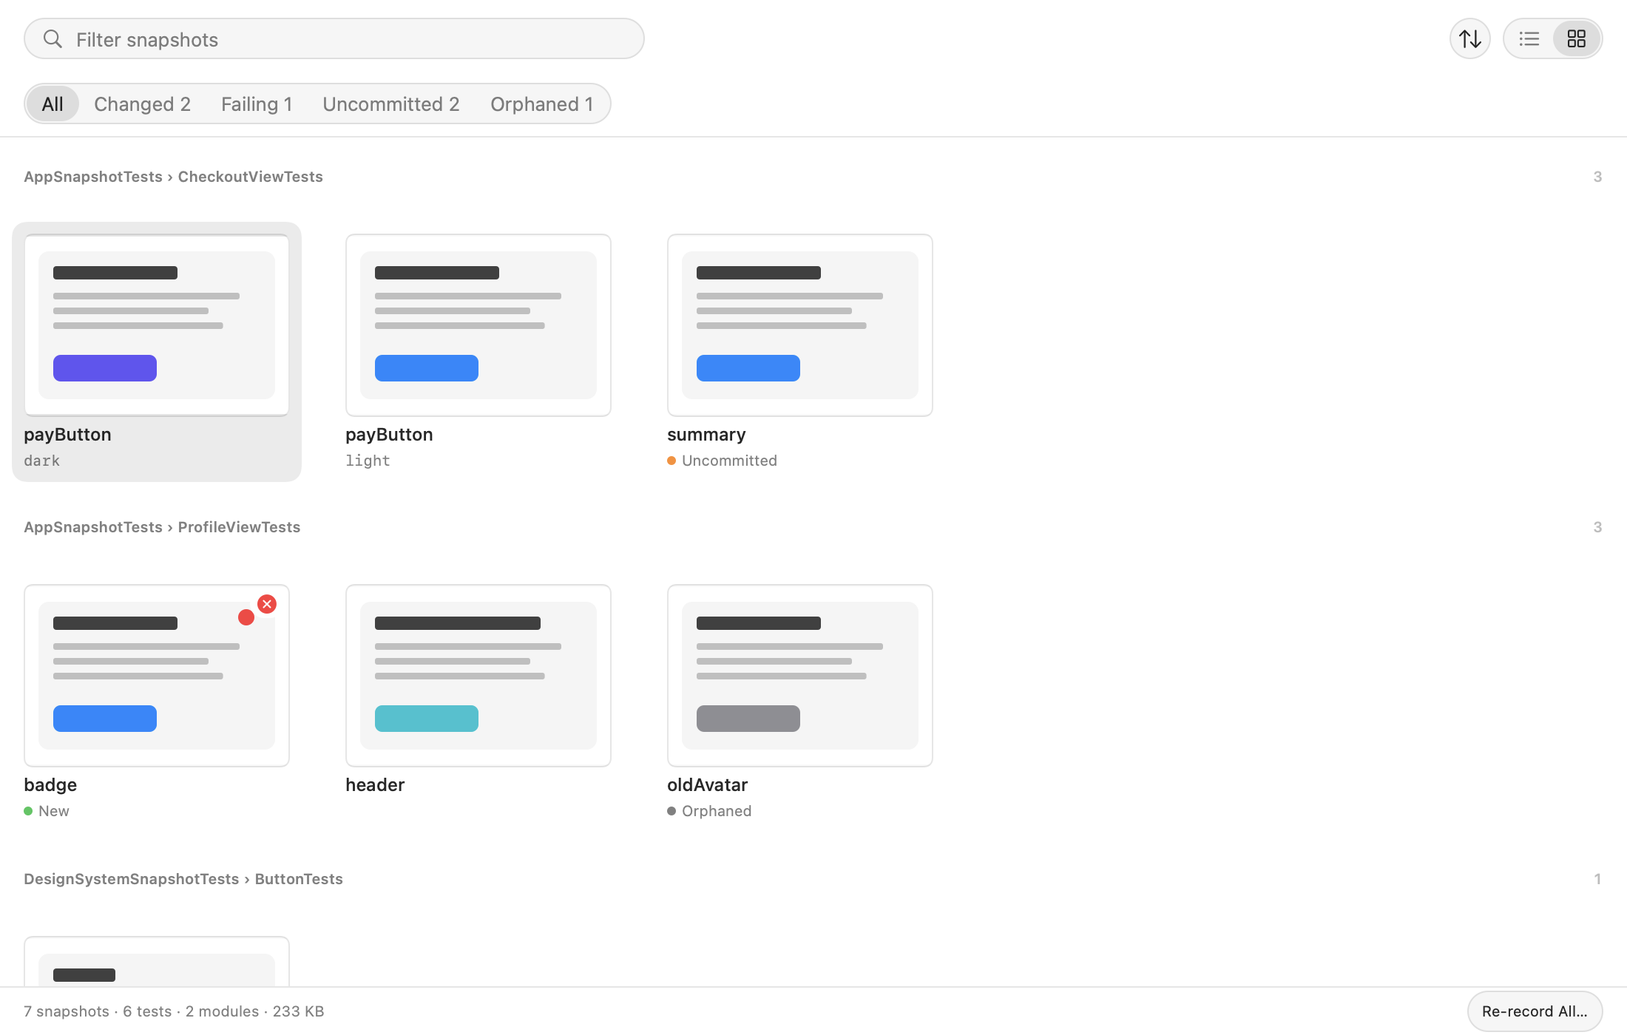
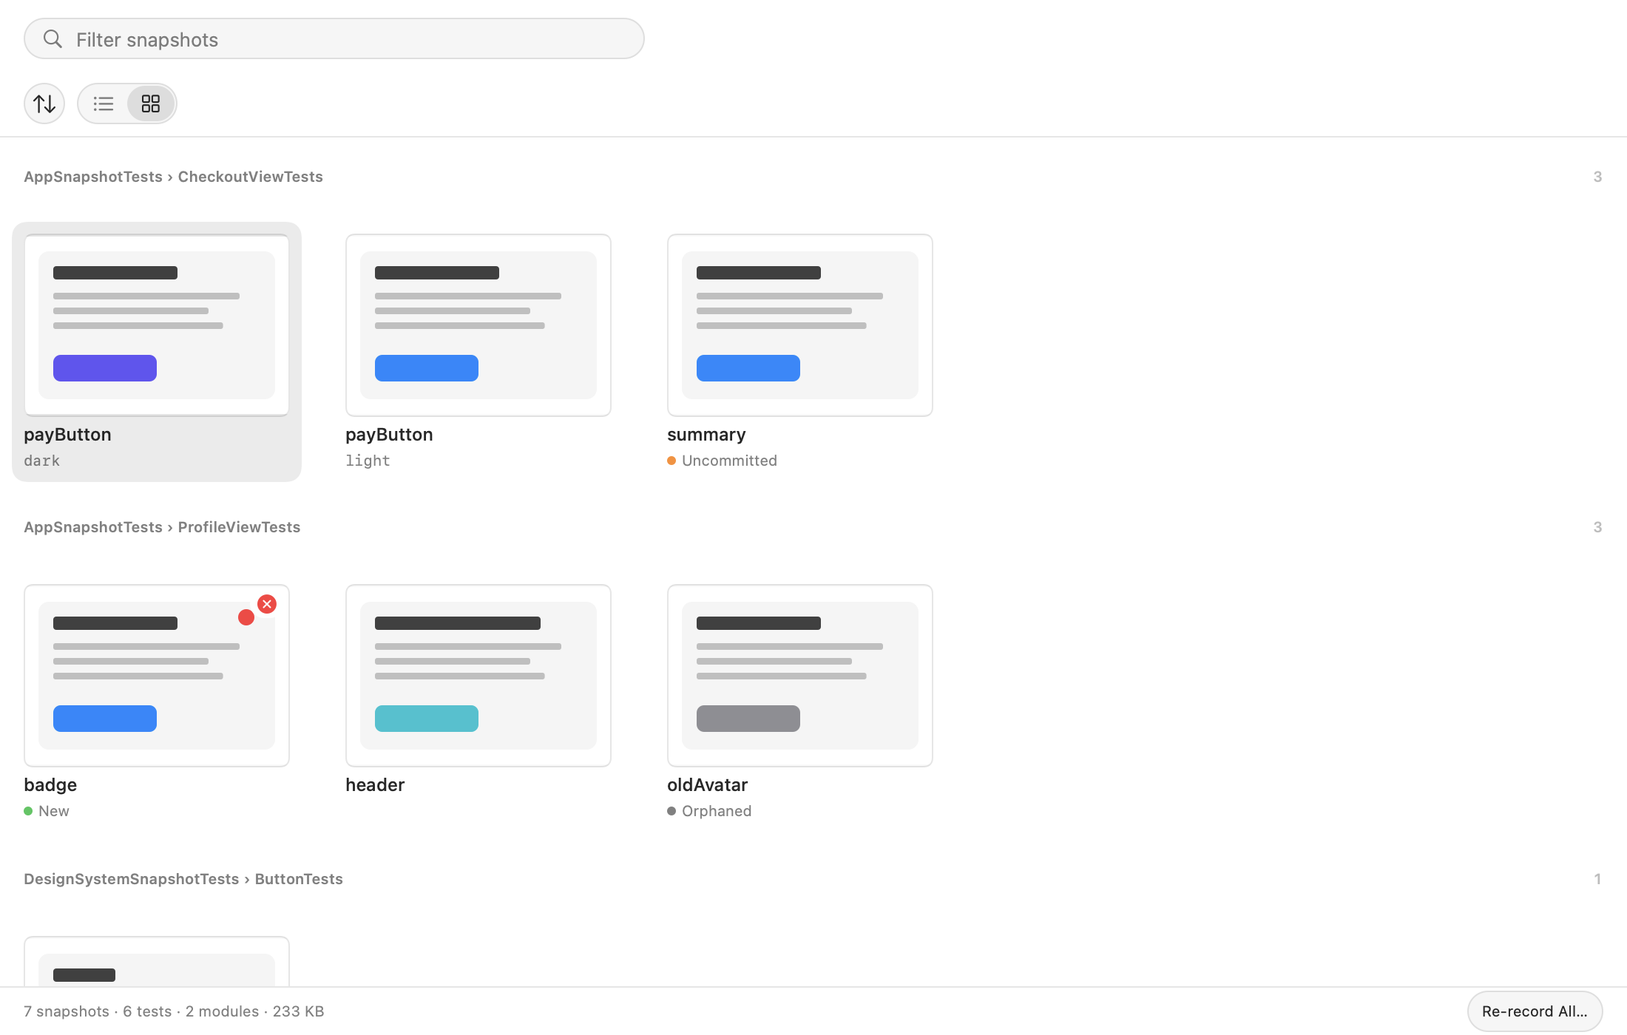
Polish the sidebar branch: screenshots, docs, the off-screen sidebar
- Working Copy no longer shows, beside its empty list, the committed change
  vs develop had selected (`shownChange`).
- The switcher sits above the section list instead of inset over it: the
  list then draws in captures, where it came out blank. Off-screen
  (`--capture`, the snapshot tests) the selected row is filled grey by
  hand, as in a background window, and the counts are flattened: the
  sidebar's selection material drew black there and its vibrancy dropped
  the dots' colour. The sidebar references now show a selected section.
- `FailingCount` is a `SectionCount`; "Working Copy" is capitalized
  everywhere; `narrowPane`'s references are named after their section.
- Screenshots: compare.png and library.png captured again from the Fitness
  sample, library-grid.png from its reference. The landing page, README and
  design notes describe the sections, the CI jobs in the sidebar and the
  library without its scopes. The runtime-warning check opens Working Copy
  too.
- Releases are named alpha ("SnapshotKit 0.4.0 alpha"), without being
  marked pre-releases, which releases/latest would skip.

Changed region(s): [[0.0, 0.0614, 0.3709, 0.1229], [0.8964, 0.0, 0.9891, 0.0614]]

diff --git a/Sources/SnapshotKitUI/Views/SidebarView.swift b/Sources/SnapshotKitUI/Views/SidebarView.swift
@@ -6,7 +6,12 @@ struct SidebarView: View {
     @Environment(AppModel.self) private var model
 
     var body: some View {
-        Group {
+        // Above the list, not inset over it or a row of it: drawn off-screen (`--capture`), the list
+        // came out blank either way.
+        VStack(spacing: 0) {
+            ProjectSwitcher()
+                .padding(.horizontal, DS.Space.s)
+                .padding(.bottom, DS.Space.xs)
             if let project = model.current {
                 SectionList(project: project)
             } else {
@@ -14,7 +19,6 @@ struct SidebarView: View {
                 List {}.listStyle(.sidebar)
             }
         }
-        .safeAreaInset(edge: .top, spacing: 0) { ProjectSwitcher() }
     }
 }
 
@@ -23,8 +27,14 @@ struct SidebarView: View {
 struct SectionList: View {
     let project: ProjectModel
 
+    /// Drawn off-screen (`--capture`, the snapshot tests), where the sidebar's selection material comes out
+    /// black and its vibrancy drops the dots' colour: there the selected row is filled by hand, grey as in
+    /// a window in the background, and the counts are flattened.
+    static var drawsOffScreen: Bool { DS.solidSurfaces || CaptureOptions.isCapturing }
+
     var body: some View {
-        List(selection: Binding(get: { project.section }, set: { if let section = $0 { project.section = section } })) {
+        List(selection: Binding(get: { Self.drawsOffScreen ? nil : project.section },
+                                set: { if let section = $0 { project.section = section } })) {
             Section("Workspace") {
                 row(.workingCopy)
                 row(.comparison)
@@ -61,6 +71,9 @@ struct SectionList: View {
             Image(systemName: Self.symbol(of: section))
         }
         .tag(section)
+        .listRowBackground(Self.drawsOffScreen && project.section == section
+            ? RoundedRectangle(cornerRadius: DS.Radius.small, style: .continuous).fill(DS.Surface.selection).padding(.horizontal, DS.Space.s + 2)
+            : nil)
         .help(project.title(of: section))
         // One VoiceOver stop per item, by its full name: "Changes vs develop, 7 changes". The count
         // is in the label: a sidebar row doesn't pass on an accessibility value.
@@ -78,7 +91,13 @@ struct SectionList: View {
                 Circle().fill(DS.Status.failed).frame(width: DS.Status.dot, height: DS.Status.dot)
             }
         } else if let count = project.count(of: section), count > 0 {
-            SectionCount(count: count, color: Self.color(of: section))
+            if Self.drawsOffScreen {
+                // Off-screen the sidebar's vibrancy drops the dot's colour; flattened, the count keeps it.
+                SectionCount(count: count, color: Self.color(of: section), textColor: Color(nsColor: .secondaryLabelColor))
+                    .drawingGroup()
+            } else {
+                SectionCount(count: count, color: Self.color(of: section))
+            }
         }
     }
 
@@ -109,14 +128,16 @@ struct SectionList: View {
 struct SectionCount: View {
     var count: Int
     var color: Color?
+    /// The number's colour, when the secondary style has nothing to resolve against (a flattened badge).
+    var textColor: Color?
 
     var body: some View {
         HStack(spacing: DS.Space.xs) {
             if let color { Circle().fill(color).frame(width: DS.Status.dot, height: DS.Status.dot) }
             Text("\(count)").monospacedDigit()
+                .foregroundStyle(textColor.map(AnyShapeStyle.init) ?? AnyShapeStyle(.secondary))
         }
         .font(DS.Font.caption)
-        .foregroundStyle(.secondary)
     }
 }
 
@@ -152,8 +173,6 @@ struct ProjectSwitcher: View {
         .buttonStyle(.plain)
         .background(RoundedRectangle(cornerRadius: DS.Radius.small, style: .continuous)
             .fill(isPresented ? DS.Surface.selection : .clear))
-        .padding(.horizontal, DS.Space.s)
-        .padding(.bottom, DS.Space.xs)
         .help("Switch project (⌘K also finds projects and commands)")
         .accessibilityLabel(model.current.map { "Project: \($0.project.name)" } ?? "Choose a project")
         .accessibilityValue(model.current?.branchLabel ?? "")

diff --git a/site/index.html b/site/index.html
@@ -284,7 +284,7 @@
   </section>
 
   <section class="wide hero-shot">
-    <img class="shot" src="images/compare.png" width="2800" height="1760" alt="SnapshotKit comparing a changed snapshot side by side: the same screen on the base branch and on the feature branch: red activity rings on develop, orange on the branch, 6.62% changed">
+    <img class="shot" src="images/compare.png" width="2800" height="1760" alt="SnapshotKit comparing a changed snapshot side by side, with the project's sections in the sidebar: the same screen on the base branch and on the feature branch: red activity rings on develop, orange on the branch, 6.62% changed">
   </section>
 
   <section id="how" class="wrap fits">
@@ -353,7 +353,7 @@
       <div class="text">
         <span class="eyebrow">Review</span>
         <h2>Review snapshots like code.</h2>
-        <p>Every snapshot image that differs from the base branch, committed or not, against the merge-base or the branch tip. Each change names the commit that last touched it.</p>
+        <p>What you haven’t committed yet, and every snapshot image that differs from the base branch, against the merge-base or the branch tip, each in its own place in the sidebar. Each change names the commit that last touched it.</p>
       </div>
       <img class="media shot" src="images/changes-dark.png" width="2200" height="1400" alt="Changed snapshots compared with the base branch, side by side, in dark mode">
     </div>
@@ -362,7 +362,7 @@
       <div class="text">
         <span class="eyebrow">Failures</span>
         <h2>Know why it failed.</h2>
-        <p>Reference, actual and difference for the last run or an .xcresult from CI. Each difference is diagnosed, flaky tests are named, and every test shows its recent runs.</p>
+        <p>Reference, actual and difference for the last run, an .xcresult, or a failed CI job, which the sidebar lists under its merge request. Each difference is diagnosed, flaky tests are named, and every test shows its recent runs.</p>
       </div>
     </div>
     <div class="row">
@@ -374,7 +374,7 @@
       <img class="media shot" src="images/diagnosis.png" width="1640" height="960" alt="A note saying the difference is not visible, with a button to copy perceptualPrecision: 0.99">
     </div>
     <div class="row flip">
-      <img class="media shot" src="images/library-grid.png" width="2200" height="1400" alt="The snapshot library as a grid, with changed, failing, uncommitted and orphaned filters">
+      <img class="media shot" src="images/library-grid.png" width="2200" height="1400" alt="The snapshot library as a grid of thumbnails, grouped by test file">
       <div class="text">
         <span class="eyebrow">Update</span>
         <h2>Re-record what should change.</h2>

diff --git a/Sources/SnapshotKitUI/Model/ProjectModel.swift b/Sources/SnapshotKitUI/Model/ProjectModel.swift
@@ -172,7 +172,7 @@ enum FailureOrigin: Hashable {
 struct FailureSet {
     var items: [FailureItem] = []
     var source: FailureSource?
-    /// The suites Re-record Failing Suites and Check Flakiness act on.
+    /// Its failing suites: for the last run's, what Re-record Failing Suites and Check Flakiness act on.
     var failingSuites: [SuiteResult] = []
     var flakeResults: [FlakeResult] = []
     /// What kind of difference each failure is (first repetition), computed in the background.
@@ -360,6 +360,11 @@ final class ProjectModel {
     }
     var diffBase: DiffBase = .mergeBase { didSet { if oldValue != diffBase { refreshChanges() } } }
     var selectedChangeID: String?
+    /// The selected change, while the section lists it: Working Copy has no committed changes to show,
+    /// even when one stays selected for vs develop.
+    var shownChange: SnapshotChange? {
+        selectedChange.flatMap { change in sectionChanges.contains(change) ? change : nil }
+    }
     /// Changes marked as viewed whose file hasn't changed since.
     private(set) var viewedChanges: Set<String> = []
     var hideViewed = false {
@@ -755,7 +760,7 @@ final class ProjectModel {
         library?.files.contains { $0.path == path } ?? false
     }
 
-    /// Opens a snapshot's change, in Working copy when it isn't committed yet, clearing filters that
+    /// Opens a snapshot's change, in Working Copy when it isn't committed yet, clearing filters that
     /// would hide it.
     func showChange(path: String) {
         guard let change = changeSet?.changes.first(where: { $0.path == path }) else { return }
@@ -872,7 +877,7 @@ final class ProjectModel {
         }
     }
 
-    /// The changes the section is about: the uncommitted ones in Working copy, those of the chosen
+    /// The changes the section is about: the uncommitted ones in Working Copy, those of the chosen
     /// kinds when comparing with the base branch.
     var sectionChanges: [SnapshotChange] {
         let changes = changeSet?.changes ?? []

diff --git a/Tests/SnapshotKitAppTests/AppSnapshotTests.swift b/Tests/SnapshotKitAppTests/AppSnapshotTests.swift
@@ -187,7 +187,7 @@ extension AppUITests {
             let (app, project) = makeApp(section == .run ? .failedRun : .changes)
             project.section = section
             let view = ProjectView(project: project).environment(app)
-            assertView(view, size: CGSize(width: 740, height: 520), appearance: .aqua, named: section == .comparison ? "changes" : section.id)
+            assertView(view, size: CGSize(width: 740, height: 520), appearance: .aqua, named: section.id)
         }
 
         /// Increase Contrast: the selection, hairlines and labels must stay visible.
@@ -241,10 +241,7 @@ extension AppUITests {
         /// The project and its branch on top, then its sections with their counts.
         @Test(arguments: [NSAppearance.Name.aqua, .darkAqua])
         func sidebar(appearance: NSAppearance.Name) {
-            let (app, project) = makeApp(.changes)
-            // No row selected (a CI job the sidebar doesn't list): the selection material can't be
-            // rendered off-screen.
-            project.section = .ciJob(1)
+            let (app, _) = makeApp(.changes)
             let view = SidebarView().environment(app)
             assertView(view, size: CGSize(width: 260, height: 420), appearance: appearance,
                        named: appearance == .darkAqua ? "dark" : "light")
@@ -252,8 +249,7 @@ extension AppUITests {
 
         /// A merge request's failed jobs under its own heading: one loaded with its count, one to load.
         @Test func sidebarWithCIJob() {
-            let (app, project) = makeApp(.ciJob)
-            project.section = .ciJob(1)         // no row selected, as above
+            let (app, _) = makeApp(.ciJob)
             assertView(SidebarView().environment(app), size: CGSize(width: 260, height: 480), appearance: .aqua)
         }
 

diff --git a/Sources/SnapshotKitUI/Views/ChangesTab.swift b/Sources/SnapshotKitUI/Views/ChangesTab.swift
@@ -28,7 +28,7 @@ struct ChangesTab: View {
             .frame(maxHeight: .infinity, alignment: .top)
         } detail: {
             Group {
-                if let change = project.selectedChange {
+                if let change = project.shownChange {
                     VStack(spacing: 0) {
                         let shown = project.displayedChanges.map(\.id)
                         DetailHeader(title: project.showsVariant(change.file) ? "\(change.file.testName) · \(change.file.variant)" : change.file.testName,
@@ -201,7 +201,7 @@ struct ChangesTab: View {
                 .help("Merge-base shows only this branch’s changes; branch tip also shows changes made on the base branch since.")
 
                 Menu {
-                    // Working copy shows every uncommitted change, whatever its kind.
+                    // Working Copy shows every uncommitted change, whatever its kind.
                     if project.section == .comparison {
                         ForEach(SnapshotChangeKind.allCases, id: \.self) { kind in
                             // A count only when there is one: "Deleted (0)" is noise.

diff --git a/Sources/SnapshotKitUI/Design/DesignSystem.swift b/Sources/SnapshotKitUI/Design/DesignSystem.swift
@@ -671,20 +671,15 @@ struct GlassSplitButton<Content: View>: View {
     }
 }
 
-/// A project's failing tests, wherever projects are listed (sidebar, menu bar): the failed dot
+/// A project's failing tests, wherever projects are listed (the switcher, the menu bar): the failed dot
 /// and the number, read as "3 failing".
 struct FailingCount: View {
     var count: Int
 
     var body: some View {
-        HStack(spacing: DS.Space.xs) {
-            Circle().fill(DS.Status.failed).frame(width: DS.Status.dot, height: DS.Status.dot)
-            Text("\(count)").monospacedDigit()
-        }
-        .font(DS.Font.caption)
-        .foregroundStyle(.secondary)
-        .accessibilityElement(children: .ignore)
-        .accessibilityLabel("\(count) failing")
+        SectionCount(count: count, color: DS.Status.failed)
+            .accessibilityElement(children: .ignore)
+            .accessibilityLabel("\(count) failing")
     }
 }
 

diff --git a/Tests/SnapshotKitAppTests/ProjectModelTests.swift b/Tests/SnapshotKitAppTests/ProjectModelTests.swift
@@ -200,6 +200,17 @@ extension AppUITests {
             #expect(model.count(of: .workingCopy) == 2)
             #expect(model.count(of: .comparison) == 4)
             #expect(!model.changesAreFiltered)
+
+            // With nothing uncommitted, Working Copy shows no change, also not the one vs develop selected.
+            var f = ProjectFixture()
+            var committed = AppFixtures.changeSet
+            committed.changes.removeAll(where: \.isUncommitted)
+            f.changeSet = committed
+            f.section = .comparison
+            model.apply(f)
+            #expect(model.selectedChange != nil)
+            model.section = .workingCopy
+            #expect(model.displayedChanges.isEmpty && model.shownChange == nil)
         }
 
         /// A CI job's failures have an item of their own, under the job's merge request, beside the

diff --git a/Sources/SnapshotKitUI/Views/ProjectView.swift b/Sources/SnapshotKitUI/Views/ProjectView.swift
@@ -57,7 +57,7 @@ struct ProjectView: View {
                             isPresented: $project.confirmReRecordAll) {
             Button(ProjectModel.testCount(project.recordableSnapshots) == 1 ? "Re-record" : "Re-record All") { project.reRecordAll() }
         } message: {
-            Text("Every reference image is recorded again and then verified. Review the result in Working copy before committing.")
+            Text("Every reference image is recorded again and then verified. Review the result in Working Copy before committing.")
         }
         // The sidebar says which project and section; the title repeats the section, as a Mac
         // window names what it shows, and the subtitle where it is.

diff --git a/Sources/SnapshotKitUI/Views/SnapshotsTab.swift b/Sources/SnapshotKitUI/Views/SnapshotsTab.swift
@@ -112,7 +112,7 @@ struct SnapshotsTab: View {
         .confirmationDialog("Re-record \(testCount(project.recordableShownSnapshots)) tests?", isPresented: $confirmRecordShown) {
             Button("Re-record") { project.reRecord(project.recordableShownSnapshots, granularity: .tests) }
         } message: {
-            Text("Their reference images are recorded again and then verified. You can review the result in Working copy before committing.")
+            Text("Their reference images are recorded again and then verified. You can review the result in Working Copy before committing.")
         }
     }
 

diff --git a/Sources/SnapshotKitUI/SnapshotKitApp.swift b/Sources/SnapshotKitUI/SnapshotKitApp.swift
@@ -54,7 +54,7 @@ extension UserDefaults {
            let suite = UserDefaults(suiteName: name) {
             return suite
         }
-        guard CaptureOptions.parse(CommandLine.arguments) != nil else { return .standard }
+        guard CaptureOptions.isCapturing else { return .standard }
         let name = "org.snapshotkit.SnapshotKit.capture"
         UserDefaults.standard.removePersistentDomain(forName: name)
         return UserDefaults(suiteName: name) ?? .standard

diff --git a/Sources/SnapshotKitUI/WindowCapture.swift b/Sources/SnapshotKitUI/WindowCapture.swift
@@ -12,6 +12,9 @@ import SwiftUI
 /// The window is placed off-screen and the app does not activate, so it does not disturb
 /// whatever is on screen. Set SNAPSHOTKIT_HOME to keep captures away from real settings.
 struct CaptureOptions: Equatable {
+    /// Whether this process is a capture (`--capture`).
+    static let isCapturing = parse(CommandLine.arguments) != nil
+
     var output: String
     var project: String?
     var section: ProjectSection?

diff --git a/docs/design.md b/docs/design.md
@@ -31,9 +31,10 @@ A deliberately tiny system for a native macOS tool. It follows the Liquid Glass 
 ## What the app is for
 
 SnapshotKit is for **inspecting, managing and updating snapshots**; failing and flaky tests are one part of
-that. The structure follows: the library (every snapshot) is the first tab and the home of a project, Changes
-and Failures are focused views of the same snapshots, and Run is where tests run and record. Every snapshot
-can be followed between these views, and re-recording is available wherever a snapshot is shown.
+that, and the window reads like a review tool. The sidebar shows one project, under a switcher, as sections:
+what you changed (Working Copy, vs develop), what the tests say (Last Run, each failed CI job), and everything
+there is (All Snapshots, Orphaned). Each opens one of a few views of the same snapshots; every snapshot can be
+followed between them, and re-recording is available wherever a snapshot is shown.
 
 ## Principles
 
@@ -85,12 +86,11 @@ can be followed between these views, and re-recording is available wherever a sn
 - `primaryActionStyle()`: the one accent action of a region, a role rather than a look.
 - `PaneBar` / `PaneFooter`: the fixed-height bars of a column. A list has a header (search and view options),
   a filter bar and a footer (counts and the bulk action); a detail has a header (`DetailHeader`) and an info
-  row (`DetailInfoRow`) of the same heights, so the hairlines under them continue across the window, and the
-  list footers sit level with the sidebar’s footer.
+  row (`DetailInfoRow`) of the same heights, so the hairlines under them continue across the window.
 - `ListDetailSplit`: the list beside its detail (400 points by default, 280–520), with one divider position
-  for every tab, kept across launches; dragging it on one tab sets it everywhere, and switching tabs never moves it. Content too wide
+  for every section, kept across launches; dragging it in one sets it everywhere, and switching never moves it. Content too wide
   for the column gives way (a long branch name truncates) instead of spilling over.
-- `PropertySection` / `PropertyRow`: an inspector’s properties (the Run tab’s configuration): small section
+- `PropertySection` / `PropertyRow`: an inspector’s properties (the Run view’s configuration): small section
   headers, gray labels in a 104-point column, values beside them, and where a value came from in quieter
   type under it.
 - `PositionStepper`: “12 / 40” with previous and next in every detail header (⌥⌘↑ / ⌥⌘↓).
@@ -113,12 +113,16 @@ can be followed between these views, and re-recording is available wherever a sn
 - Capsules are `Capsule(style: .circular)`: the continuous style draws its flat end segment a point outside
   the curve, which showed as a tick at both ends of every pill.
 - `ZoomControls`: − level + on the compare and snapshot bars, plain on the glass.
-- `GlassSegmented`: every segmented control (layout, scope, variant, Results/Output, compare mode) is a glass
+- `GlassSegmented`: every segmented control (layout, variant, Results/Output, compare mode) is a glass
   pill with a quiet thumb (`DS.Surface.thumb`) that slides to the chosen segment, never the system’s gray
   track. On a bar that is glass already (compare), the segments sit on it without a second pill. Labels use
   fixed label colors: glass would otherwise pick its own, which came out dark in dark mode.
-- The sidebar lists every project under Projects, alphabetically, so a project stays where it is when
-  opened. Pinned and Recent above are shortcuts to the same projects; a click highlights only the row clicked.
+- The sidebar (`SidebarView`) is one project: `ProjectSwitcher` on top (the project, its branch, and a popover
+  of the others with search, Pinned and Projects), then `SectionList`. A section's count is status when it
+  needs you (an orange or red dot), a plain number otherwise. The switcher sits above the list rather than
+  inset over it or in it: either way the list drew blank off-screen. Off-screen (`--capture`, the snapshot
+  tests) the sidebar's selection material draws black and its vibrancy drops the dots' colour, so there the
+  selected row is filled by hand, grey as in a background window, and the counts are flattened.
 - The ⌘K palette (`QuickSwitcherView`, `PaletteCommand`): projects and the commands available right now in one
   ranked list, one line each, a command’s shortcut where a project shows its folder, so the palette also
   teaches the keyboard.
@@ -150,8 +154,8 @@ can be followed between these views, and re-recording is available wherever a sn
   dark at a 99.9% pixel tolerance, so visual changes have to be re-recorded on purpose.
   Off-screen rendering can’t composite Liquid Glass, so `DS.solidSurfaces` draws an opaque stand-in there
   (headless captures included). Real glass needs a look on screen.
-- **An accessibility audit test** walks each tab’s live accessibility tree and fails on unlabeled controls.
-- **No runtime warnings.** `scripts/check-runtime-warnings.sh` (also in CI) shows every tab, compare mode,
+- **An accessibility audit test** walks each view’s live accessibility tree and fails on unlabeled controls.
+- **No runtime warnings.** `scripts/check-runtime-warnings.sh` (also in CI) shows every view, compare mode,
   the palette and the welcome screen in the real window and fails on any SwiftUI or AppKit runtime issue,
   such as *Publishing changes from within view updates*. `ListSelectionTests` select rows in every list the
   way a click does and read the same log in-process. The same captures fail when a list’s scroll view is
